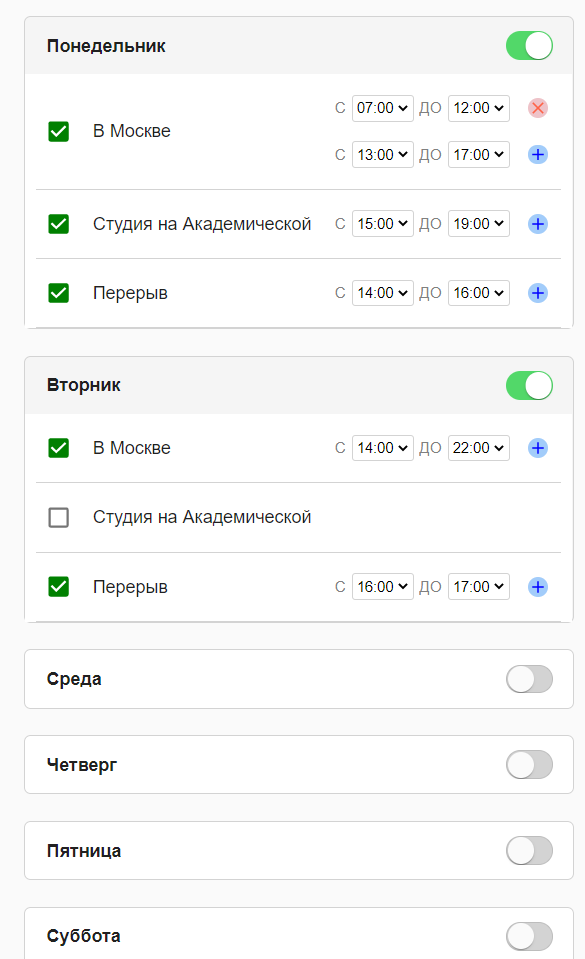
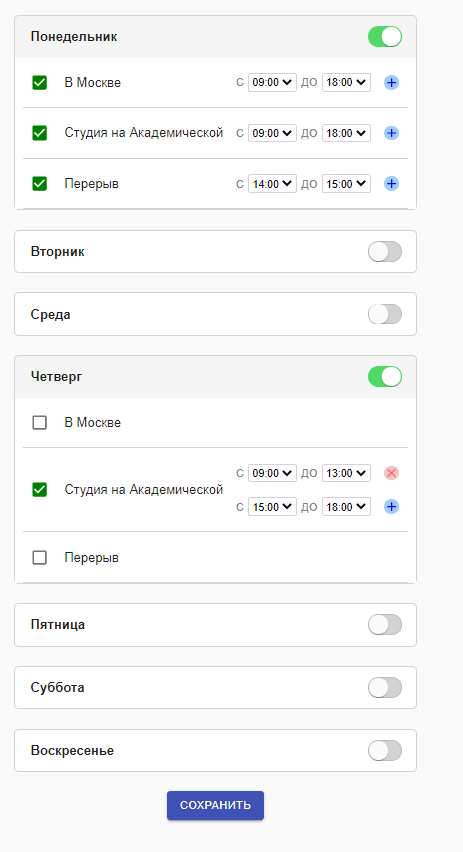
additional screenshots, updated Readme.md

diff --git a/README.md b/README.md
@@ -17,7 +17,17 @@
 
 Делать нужно на React, при этом допускается использовать любые библиотеки.
 
-В качестве образца реализации можно взять этот скриншот:
 
+## Результаты
 
-![Screenshot](https://github.com/rafaele85/salon-schedule/blob/master/screens/screenshot1.PNG?raw=true)
+Расписание выполнено на React на Typescript c использованием MaterialUI
+и styled components.
+
+Для хранения данных использован Redux.
+
+Результаты работы представлены на скриншотах:
+
+![Основной интерфейс](https://github.com/rafaele85/salon-schedule/blob/master/screens/screenshot1.PNG?raw=true)
+
+![Результирующий JSON](https://github.com/rafaele85/salon-schedule/blob/master/screens/screenshot2.PNG?raw=true)
+
